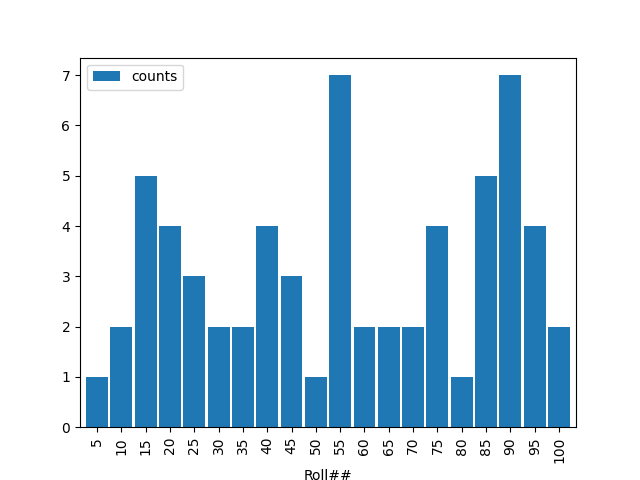
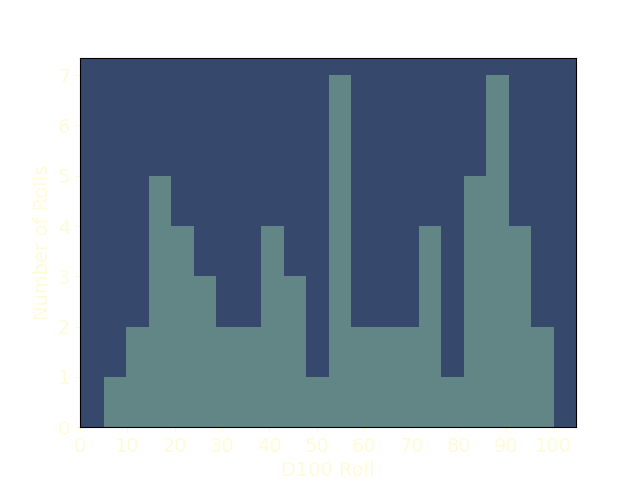
test

diff --git a/LogClasses.py b/LogClasses.py
@@ -185,6 +185,7 @@ class ChatLog():
 
     def plot_player_rolls(self, player=''):
         filename = 'Total'
+        roll_bins = [0,10,20,30,40,50,60,70,80,90,100]
         roll_df = self._sessions_df[self._sessions_df['Roll'].str.contains('d100')][['Roll', 'Text Type']].copy()
         roll_df = roll_df[~roll_df['Text Type'].str.contains('Roll:GM')]
         if player != '':
@@ -194,9 +195,15 @@ class ChatLog():
         roll_df['Roll##'] = (roll_df['Roll#']/5).round().astype(int)*5
         count_df = roll_df.groupby(['Roll##'])['Roll##'].size().reset_index(name='counts')
         count_df = count_df.sort_values(['Roll##'])
-        ax = count_df.plot(kind='bar', x='Roll##', y='counts', width=0.9)
+        # ax = count_df.plot(kind='bar', x='Roll##', y='counts', width=0.9, legend=False)
+        ax = roll_df.plot(kind='hist', bins=20, x='Roll#', legend=False, color="#618685", xticks=roll_bins)
+        ax.set_facecolor("#36486b")
+        ax.set_ylabel('Number of Rolls', color="#fefbd8", size=14)
+        ax.set_xlabel('D100 Roll', color="#fefbd8", size=14)
+        ax.tick_params(color="#fefbd8", labelcolor="#fefbd8", labelsize=14)
         fig = ax.get_figure()
-        fig.patch.set_alpha(0.5)
+        fig.patch.set_alpha(0)
+        
         fig.savefig(f'Rooms/Assets/Images/{filename}Roll.png')
         plt.close(fig)
         return
@@ -220,7 +227,7 @@ class ChatLog():
         self._html_body.append('<h3>Choose a room to enter or view the session ledger</h3>')
         self._html_body.append('<ul>')
         self._html_body.append('<li><a href="SessionLedger.html">Session Ledger</a></li>')
-        self._html_body.append('<li><a href="Rooms/DiceRolls.html">Dice Rolls</a></li>')
+        self._html_body.append('<li><a href="Rooms/ChatLogs/DiceRolls.html">Dice Rolls</a></li>')
         for player in self.player_names:
             self._html_body.append(f'<li><img src="Rooms/Assets/Images/{player.replace(' ', '')}.png" alt="{player}"><a href="Rooms/{player.replace(' ', '')}.html">{player}\'s Room</a></li>')
         self._html_body.append('</ul>')
@@ -286,7 +293,7 @@ class ChatLog():
         for player in self.player_names:
             self._html_body.append(f'<li><img src="../Assets/Images/{player.replace(' ', '')}.png" alt="{player}"><img class="roll" src="../Assets/Images/{player.replace(' ', '')}Roll.png" alt="{player}"></li>')
         self.add_footer()
-        self.write_html_file(f'Rooms/ChatLogs/DiceRolls.html', self._html_body)
+        self.write_html_file('Rooms/ChatLogs/DiceRolls.html', self._html_body)
 
     
 # %%
